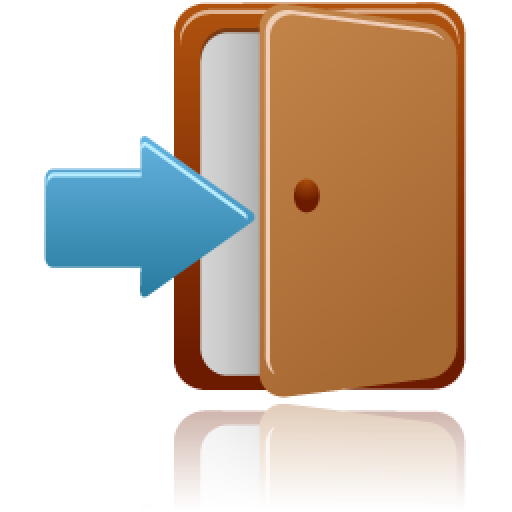
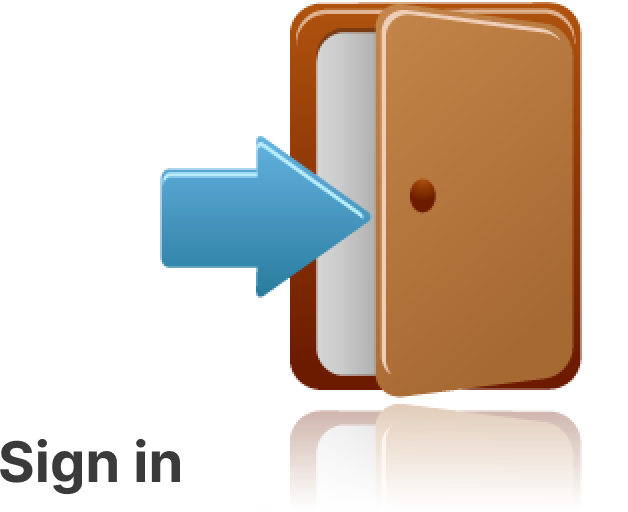
Signin page completed

diff --git a/lib/views/sign_in_page.dart b/lib/views/sign_in_page.dart
@@ -1,0 +1,116 @@
+import 'package:flutter/gestures.dart';
+import 'package:flutter/material.dart';
+import 'package:flutter_screenutil/flutter_screenutil.dart';
+import 'package:one_go_app/custom_widgets/constants.dart';
+import 'package:one_go_app/custom_widgets/reusable_button.dart';
+import 'package:one_go_app/custom_widgets/validators.dart';
+import 'package:one_go_app/generated/assets.dart';
+
+
+class SignInPage extends StatefulWidget {
+  static const String id = 'SignInPage';
+
+  const SignInPage({Key? key}) : super(key: key);
+
+  @override
+  State<SignInPage> createState() => _SignInPageState();
+}
+
+class _SignInPageState extends State<SignInPage> {
+  final _formKey = GlobalKey<FormState>();
+  bool isPasswordVisible = true;
+  String email = '';
+  String password = '';
+
+  @override
+  Widget build(BuildContext context) {
+    return Scaffold(
+      resizeToAvoidBottomInset: false,
+      backgroundColor: whiteColor,
+      body: Column(
+        children: [
+          Expanded(
+            child: Padding(
+              padding: const EdgeInsets.all(8.0),
+              child: Column(
+                mainAxisAlignment: MainAxisAlignment.spaceBetween,
+                children: [
+                  Column(
+                    children: [
+                      addVerticalSpacing(50),
+                      Image.asset(Assets.figmaPngsSignIn),
+                      addVerticalSpacing(20),
+                      Form(
+                        key: _formKey,
+                        child: Column(
+                          mainAxisAlignment: MainAxisAlignment.spaceAround,
+                          crossAxisAlignment: CrossAxisAlignment.stretch,
+                          children: [
+                            TextFormField(
+                              autovalidateMode: AutovalidateMode.onUserInteraction,
+                              validator: emailValidator,
+                              onChanged: (value) {
+                                email = value;
+                              },
+                              decoration: const InputDecoration(
+                                hintText: 'Email address',
+                                contentPadding: EdgeInsets.symmetric(
+                                    vertical: 10.0, horizontal: 20.0),
+                              ),
+                            ),
+                            addVerticalSpacing(50),
+                            TextFormField(
+                              validator: passwordValidator,
+                              obscureText: isPasswordVisible,
+                              obscuringCharacter: '*',
+                              autovalidateMode: AutovalidateMode.onUserInteraction,
+                              onChanged: (value) {
+                                password = value;
+                              },
+                              decoration: InputDecoration(
+                                suffixIcon: GestureDetector(
+                                    onTap: () {
+                                      setState(() {
+                                        isPasswordVisible = !isPasswordVisible;
+                                      });
+                                    },
+                                    child: const Icon(Icons.visibility)),
+                                hintText: 'Password',
+                                contentPadding: const EdgeInsets.symmetric(
+                                    vertical: 10.0, horizontal: 20.0),
+                              ),
+                            ),
+                            addVerticalSpacing(20),
+                            RichText(
+                              text: TextSpan(children: <TextSpan>[
+                                TextSpan(
+                                    text: 'Forgot password?',
+                                    style: linkStyle.copyWith(fontSize: 15),
+                                    recognizer: TapGestureRecognizer()
+                                      ..onTap = () {}),
+                              ]),
+                            ),
+                          ],
+                        ),
+                      ),
+                    ],
+                  ),
+                  Padding(
+                    padding: const EdgeInsets.all(20.0),
+                    child: ReusableButton(
+                        const Text(
+                          'Sign in',
+                          style: boldWhiteStyle,
+                        ),
+                        () {},
+                        blueColor),
+                  ),
+                ],
+              ),
+            ),
+          ),
+        ],
+      ),
+    );
+  }
+}

diff --git a/lib/views/welcome_page.dart b/lib/views/welcome_page.dart
@@ -2,8 +2,12 @@ import 'package:flutter/material.dart';
 import 'package:one_go_app/custom_widgets/constants.dart';
 import 'package:one_go_app/custom_widgets/reusable_button.dart';
 import 'package:one_go_app/generated/assets.dart';
+import 'package:one_go_app/views/sign_in_page.dart';
+import 'package:one_go_app/views/sign_up_page.dart';
+import 'package:page_transition/page_transition.dart';
 
 class WelcomePage extends StatelessWidget {
+  static const String id = 'WelcomePage';
   const WelcomePage({Key? key}) : super(key: key);
 
   @override
@@ -13,22 +17,41 @@ class WelcomePage extends StatelessWidget {
       body: Center(
         child: Column(
           children: [
-           Expanded(child: Center(
-             child: Column(
-               children: [
-                 Expanded(child: Image.asset(Assets.figmaPngsOnegoImage)),
-                 Padding(
-                   padding: const EdgeInsets.all(20.0),
-                   child: ReusableButton(const Text('Sign in',style: boldWhiteStyle,), (){},blueColor),
-                 ),
-                 Padding(
-                   padding: const EdgeInsets.all(20.0),
-                   child: ReusableButton(const Text('Sign up',style: normalBlueStyle,), (){},whiteColor),
-                 ),
-                 addVerticalSpacing(50),
+            Expanded(
+                child: Center(
+              child: Column(
+                children: [
+                  Expanded(child: Image.asset(Assets.figmaPngsOnegoImage)),
+                  Padding(
+                    padding: const EdgeInsets.all(20.0),
+                    child: ReusableButton(
+                        const Text(
+                          'Sign in',
+                          style: boldWhiteStyle,
+                        ), () {
+                          print("tapped");
+                      Navigator.push(
+                          context,
+                          PageTransition(
+                              child: const SignInPage(),
+                              type: PageTransitionType.rightToLeft));
+                    }, blueColor),
+                  ),
+                  Padding(
+                    padding: const EdgeInsets.all(20.0),
+                    child: ReusableButton(
+                        const Text(
+                          'Sign up',
+                          style: normalBlueStyle,
+                        ), () {
+                      print("tapphhed");
+                      Navigator.pushNamed(context, SignUpPage.id);
+                    }, whiteColor),
+                  ),
+                  addVerticalSpacing(50),
                 ],
-             ),
-           )),
+              ),
+            )),
           ],
         ),
       ),

diff --git a/lib/views/sign_up_page.dart b/lib/views/sign_up_page.dart
@@ -1,0 +1,40 @@
+import 'package:flutter/material.dart';
+import 'package:one_go_app/custom_widgets/constants.dart';
+import 'package:one_go_app/custom_widgets/reusable_button.dart';
+import 'package:one_go_app/generated/assets.dart';
+
+class SignUpPage extends StatelessWidget {
+  static const String id = 'SignUpPage';
+  const SignUpPage({Key? key}) : super(key: key);
+
+  @override
+  Widget build(BuildContext context) {
+    return Scaffold(
+      backgroundColor: whiteColor,
+      body: Center(
+        child: Column(
+          children: [
+            Expanded(
+              child: Center(
+                child: Column(
+                  children: [
+                    Padding(
+                      padding: const EdgeInsets.all(20.0),
+                      child: ReusableButton(
+                          const Text(
+                            'Sign Up',
+                            style: boldWhiteStyle,
+                          ),
+                          () {},
+                          blueColor),
+                    ),
+                  ],
+                ),
+              ),
+            ),
+          ],
+        ),
+      ),
+    );
+  }
+}

diff --git a/lib/main.dart b/lib/main.dart
@@ -1,5 +1,7 @@
 import 'package:flutter/material.dart';
 import 'package:flutter_screenutil/flutter_screenutil.dart';
+import 'package:one_go_app/views/sign_in_page.dart';
+import 'package:one_go_app/views/sign_up_page.dart';
 import 'package:one_go_app/views/welcome_page.dart';
 
 void main() {
@@ -16,10 +18,14 @@ class MyApp extends StatelessWidget {
       minTextAdapt: true,
       splitScreenMode: true,
       designSize: const Size(414, 896),
-      builder: (_) =>
-      const MaterialApp(
+      builder: (_) => MaterialApp(
         debugShowCheckedModeBanner: false,
-        home: WelcomePage(),
+        initialRoute: WelcomePage.id,
+        routes: {
+          WelcomePage.id: (context) => const WelcomePage(),
+          SignInPage.id: (context) => const SignInPage(),
+          SignUpPage.id: (context) => const SignUpPage(),
+        },
       ),
     );
   }

diff --git a/lib/custom_widgets/reusable_button.dart b/lib/custom_widgets/reusable_button.dart
@@ -24,7 +24,7 @@ class ReusableButton extends StatelessWidget {
                   backgroundColor: MaterialStateProperty.all(buttonColor),
                   shape: MaterialStateProperty.all<RoundedRectangleBorder>(
                       RoundedRectangleBorder(
-                          borderRadius: BorderRadius.circular(28.0),
+                          borderRadius: BorderRadius.circular(30.0),
                           side: const BorderSide(color: Colors.blue)))),
               onPressed: onPressed,
               child: Row(
